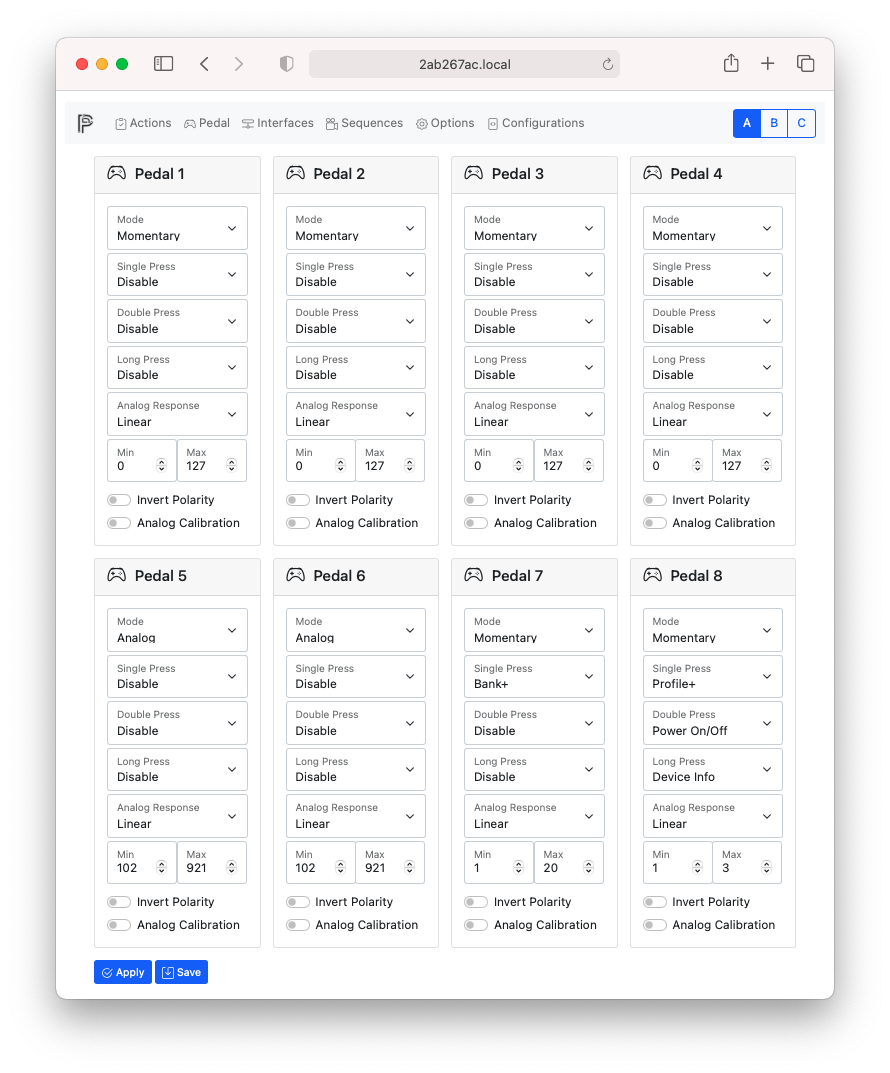
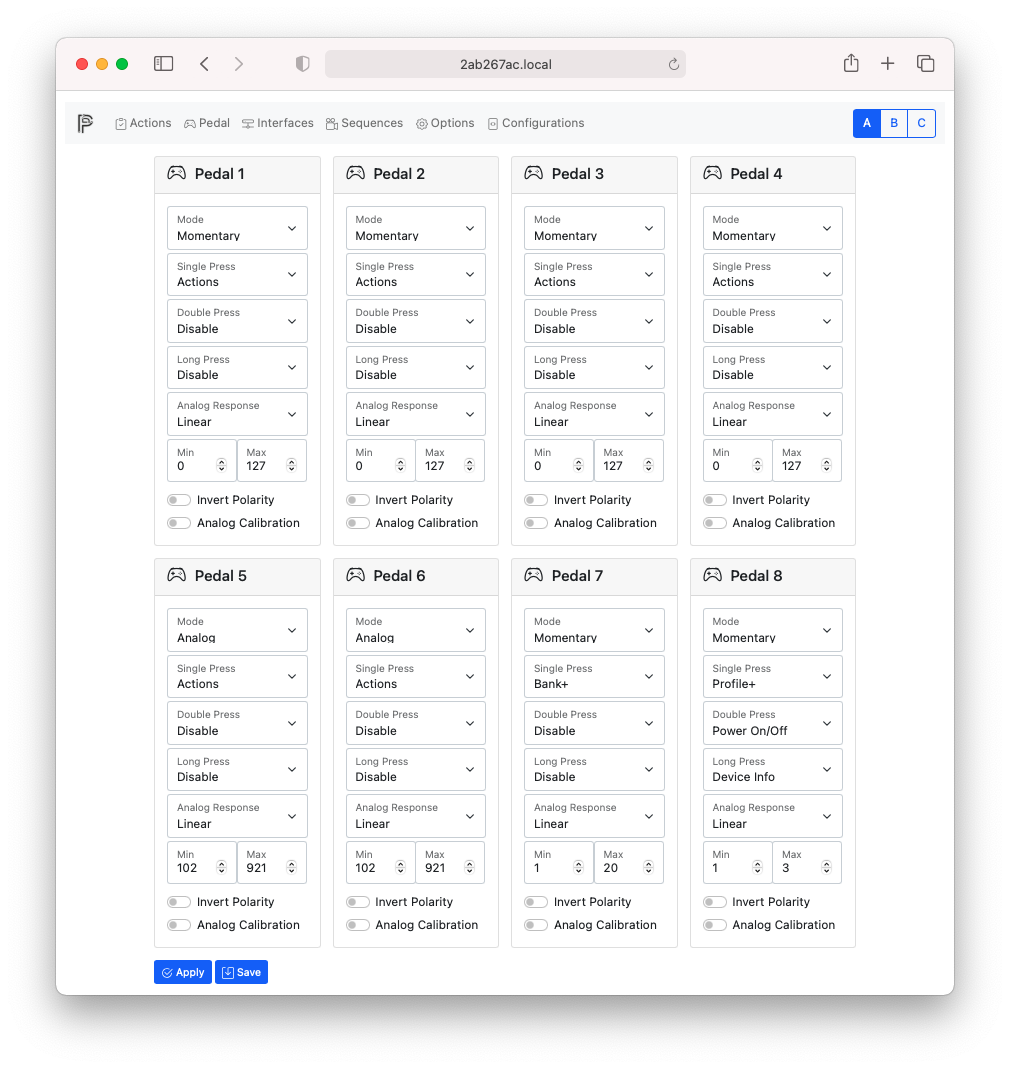
Updated documentation

diff --git a/README.md b/README.md
@@ -188,21 +188,20 @@ Device name, username and password can be changed via web user interface in the 
 
 ## Pedals
 
-Once PedalinoMini™ is connected to a WiFI network and you are connected to the web user interface it is time to configure which pedal/controller is connected to each of the 6 available ports.
+Once PedalinoMini™ is connected to a WiFI network and you are connected to the web user interface it is time to configure which pedal/controller is connected to each of the 6 available ports. Port 7 and 8 (if present) are the on board buttons and they are fully configurable.
 
 ![WEBUI PEDALS](./images/webui-pedals.png "Pedals")
 
 ____________|Description
 :-----------|:----------
 Mode|Select one of the following: NONE, MOMENTARY, LATCH, ANALOG, JOG WHEEL, MOMENTARY 2, MOMENTARY 3, LATCH 2, LADDER.
-Function|Define a global function for the pedal. Global pedal function override any action and it is used in any bank of the profile. An example of global pedal function can be BANK+ (move to next bank) or BANK- (move to previous bank). Other function available here are: MTC Start (MIDI Time Code or MIDI Clock Start), MTC Stop (MIDI Time Code or MIDI Clock Stop), MTC Continue (MIDI Time Code or MIDI Clock Continue), TAP (tap tempo), BPM+ (increase tempo) and BPM- (decrease tempo). Leave blank to use Actions.
-Analog|Mapping between analog pedal movement and response. Accepted values: LINEAR (as is response), LOG (great acceleration but than flat), ANTILOG (start slow with a rapid increase).
+Singles Press|Define a global function for the pedal when pressed. Global pedal function override any action and it is used in any bank of the profile. Select Actions to use bank specific actions. Select Disable here to disable PRESS, RELEASE and CLICK events. The global function is triggered on PRESS is Double Press and Long Press are disbaled, otherwise on CLICK.
+Double Press|Define a global function for the pedal when double pressed. Global pedal function override any action and it is used in any bank of the profile. Select Actions to use bank specific actions. If double press is enabled CLICK event is postponed until double press timeout (by default 400ms). Select Disable here to disable DOUBLE CLICK events.
+Long Press|Define a global function for the pedal when keep presssed (500 ms by default). Global pedal function override any action and it is used in any bank of the profile. Select Disable here to disable LONG PRESS events.
+Analog Response|Mapping between analog pedal movement and response. Accepted values: LINEAR (as is response), LOG (great acceleration but than flat), ANTILOG (start slow with a rapid increase).
 Min|It depends of pedal mode and/or pedal function (see below).
 Max|It depends of pedal mode and/or pedal function (see below).
 Invert Polarity|Normally open (NO) and normally closed (NC) momentary switches are supported and configurable by software if the foot switch do not have a polarity switch. On analog pedal it invert the range.
-Single Press|Enable single press (including PRESS, RELEASE and CLICK events). If single press is disabled PRESS, RELEASE and CLICK events are disabled.
-Double Press|Enable double press. If double press is enabled CLICK event is postponed until double press timeout (by default 400ms). If double press is disabled DOUBLE CLICK events are disabled.
-Long Press|Enable long press. If long press is disabled LONG PRESS events are disabled.
 Analog Calibration|Enable analog pedal continuous calibration. Min and Max values are managed by PedalinoMini™. After each power on cycle move the expression pedals to its full range and PedalinoMini™ will calibrate it. During the first full movement of the pedal MIDI events could be not precise because PedalinoMini™ is still learning the full range of the pedal.
 
 
